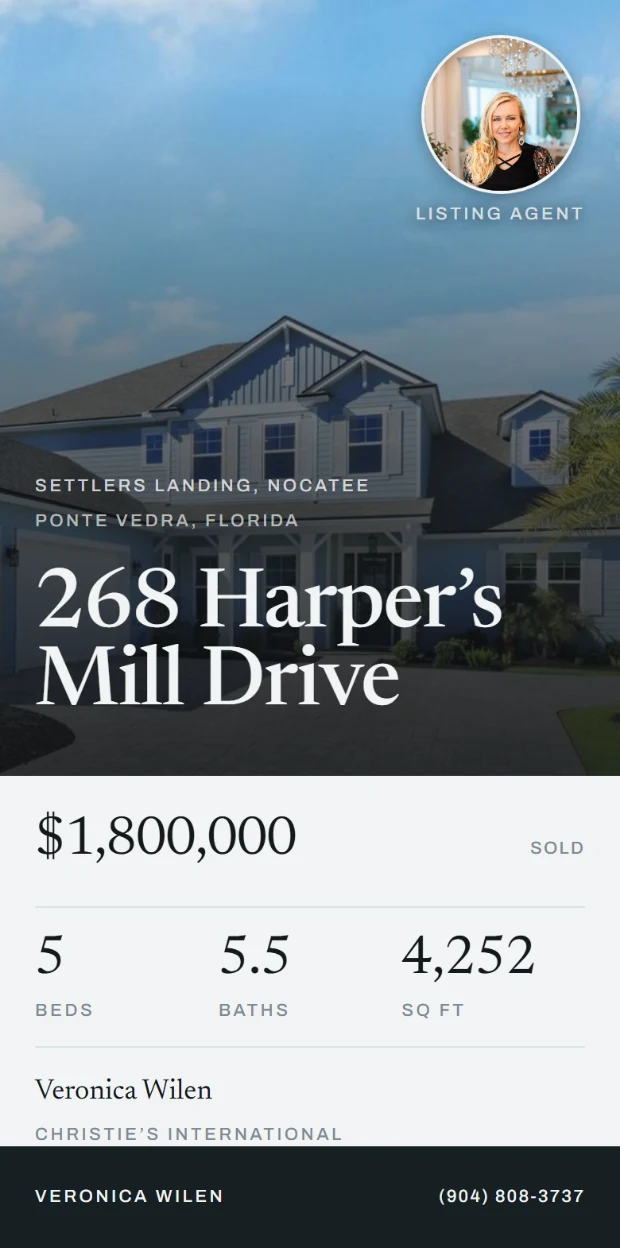
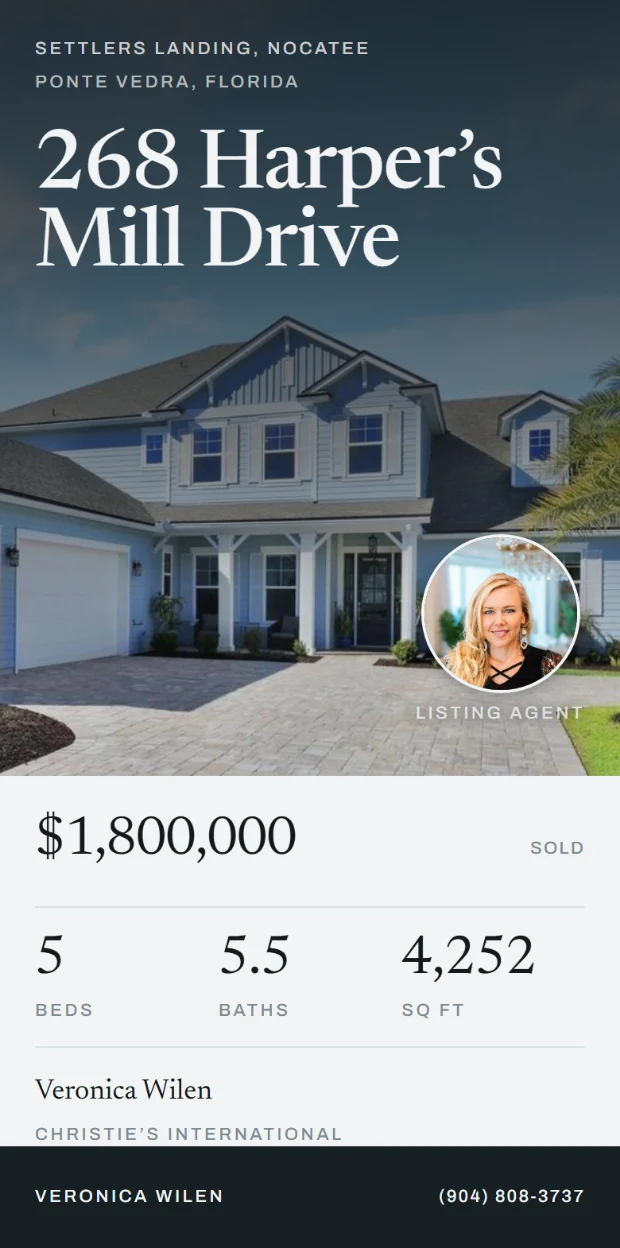
Stop both headings wrapping, and refresh Harper's Mill
Two wraps, one cause each.

"What a listing guide looks like" broke over three lines because I
capped its column at 30ch. ch resolves against the wrapper's own font -
17px sans, not the 42px serif inside it - so the cap came out about
260px. It is 480px now, and the heading sits on two lines.

The hero headline wrapped inside its own hard line breaks: "Everything a
buyer" is wider than the old "Everything they" and outgrew the text
column at the top of the clamp. The three lines cannot wrap now, and the
size is tuned so they do not need to - measured against the real text
width at every width from 320 to 1920, with a smaller floor under 340px
where the longest line was still 31px too wide.

Harper's Mill re-shot: the cover moved the address to the top of the
photo and enlarged the agent's portrait onto it. Alt text follows.

diff --git a/index.html b/index.html
@@ -109,7 +109,7 @@
         <div class="phone-glow" aria-hidden="true"></div>
         <div class="phone">
           <div class="phone-screen">
-            <div class="frame on"><img src="images/guide-harpersmill-home.webp" width="620" height="1248" alt="A listing guide on a phone: 268 Harper’s Mill Drive over a photo of the home, the listing agent’s photo in the corner, the sold price below it, and her call band pinned across the bottom." loading="eager" decoding="async"></div>
+            <div class="frame on"><img src="images/guide-harpersmill-home.webp" width="620" height="1248" alt="A listing guide on a phone: 268 Harper’s Mill Drive at the top of a photo of the home, the listing agent’s portrait on it, the sold price below, and her call band pinned across the bottom." loading="eager" decoding="async"></div>
             <div class="frame"><img data-src="images/guide-parklake-home.webp" width="620" height="1248" alt="Another listing on the same phone: 673 Park Lake Drive at $769,000, four beds and 2,919 square feet, with the listing agent’s photo in the corner." decoding="async"></div>
             <div class="frame"><img data-src="images/guide-gullcir-home.webp" width="620" height="1248" alt="Another listing on the same phone: 209 Gull Circle, a beach house at sunset, $1,299,000 and 3,495 square feet." decoding="async"></div>
             <div class="frame"><img data-src="images/guide-vistalake-home.webp" width="620" height="1248" alt="Another listing on the same phone: 118 Vista Lake Circle at $599,999, four beds and 2,187 square feet." decoding="async"></div>
@@ -145,7 +145,7 @@
             </div>
             <div class="stage-slot stage-slot--a">
               <div class="phone">
-                <div class="phone-screen"><img id="work-img-a" src="images/guide-harpersmill-home.webp" width="620" height="1248" alt="The guide’s opening screen: 268 Harper’s Mill Drive over a photo of the home, the listing agent’s photo in the corner, and the sold price, beds, baths and square feet below it." loading="lazy" decoding="async"></div>
+                <div class="phone-screen"><img id="work-img-a" src="images/guide-harpersmill-home.webp" width="620" height="1248" alt="The guide’s opening screen: the address at the top of a photo of the home, the listing agent’s portrait on it, and the sold price with beds, baths and square feet below." loading="lazy" decoding="async"></div>
               </div>
             </div>
           </div>

diff --git a/styles.css b/styles.css
@@ -46,10 +46,10 @@ img{max-width:100%;display:block}
 /* hero */
 .hero{padding:clamp(18px,2.6vw,36px) var(--pad-x) clamp(32px,3.4vw,46px)}
 .hero-grid{display:grid;grid-template-columns:minmax(0,1.15fr) minmax(0,.85fr);gap:clamp(28px,5vw,72px);align-items:center}
-.hero h1{font-size:clamp(38px,6vw,74px);line-height:1.06;margin-bottom:var(--sp-5)}
+.hero h1{font-size:clamp(33px,4.9vw,62px);line-height:1.07;margin-bottom:var(--sp-5)}
 .hero h1 .line{display:block;overflow:hidden;padding-bottom:.14em;margin-bottom:-.14em}
 .hero h1 .line:last-child{margin-bottom:0}
-.hero h1 .line>span{display:block;transform:translateY(120%);transition:transform 720ms var(--ease-soft)}
+.hero h1 .line>span{display:block;white-space:nowrap;transform:translateY(120%);transition:transform 720ms var(--ease-soft)}
 .hero h1.in .line>span{transform:none}
 .hero h1.in .line:nth-child(2)>span{transition-delay:90ms}
 .hero h1.in .line:nth-child(3)>span{transition-delay:180ms}
@@ -118,7 +118,7 @@ img{max-width:100%;display:block}
 /* Heading and lede share a line, so the pitch costs one block of height
    instead of two and the screens stay in view with it. */
 .work-intro{display:flex;flex-wrap:wrap;align-items:flex-start;justify-content:space-between;gap:var(--sp-4) clamp(24px,4vw,64px)}
-.work-intro>div{flex:1 1 300px;max-width:30ch}
+.work-intro>div{flex:1 1 340px;max-width:480px}
 .work h2{font-size:clamp(28px,3.2vw,42px);margin:var(--sp-2) 0 0}
 /* A note beside the heading rather than a subtitle floating under it. */
 .work-lede{color:var(--text-muted);max-width:52ch;font-size:16px;line-height:1.55;flex:0 1 470px;margin-top:var(--sp-4);padding:var(--sp-4);border:1px solid var(--border-hairline);border-radius:var(--radius-md);background:var(--surface-card)}
@@ -238,6 +238,9 @@ img{max-width:100%;display:block}
   /* Text first, as on desktop. order:-1 pushed the placeholder device above
      the headline, so the whole pitch started ~690px down the page. */
   .phone-wrap{order:0}
+}
+@media (max-width:340px){
+  .hero h1{font-size:29px}
 }
 @media (max-width:640px){
   /* Side by side, two screens this narrow are thumbnails. Overlap them: the

diff --git a/script.js b/script.js
@@ -118,7 +118,7 @@ document.addEventListener('DOMContentLoaded',function(){
      facts:'5 beds · 5.5 baths · 4,252 sq ft',
      url:'https://268-harpers-mill.vercel.app/',
      frames:[
-       {src:'guide-harpersmill-home.webp',alt:'The guide’s opening screen: 268 Harper’s Mill Drive over a photo of the home, the listing agent’s photo in the corner, and the sold price, beds, baths and square feet below it.'},
+       {src:'guide-harpersmill-home.webp',alt:'The guide’s opening screen: the address at the top of a photo of the home, the listing agent’s portrait on it, and the sold price with beds, baths and square feet below.'},
        {src:'guide-harpersmill-pool.webp',alt:'Further down the same guide: the screened pool and spa across the full width of the screen, captioned, with the outdoor kitchen starting below it.'}
      ]},
     {title:'673 Park Lake Drive',
